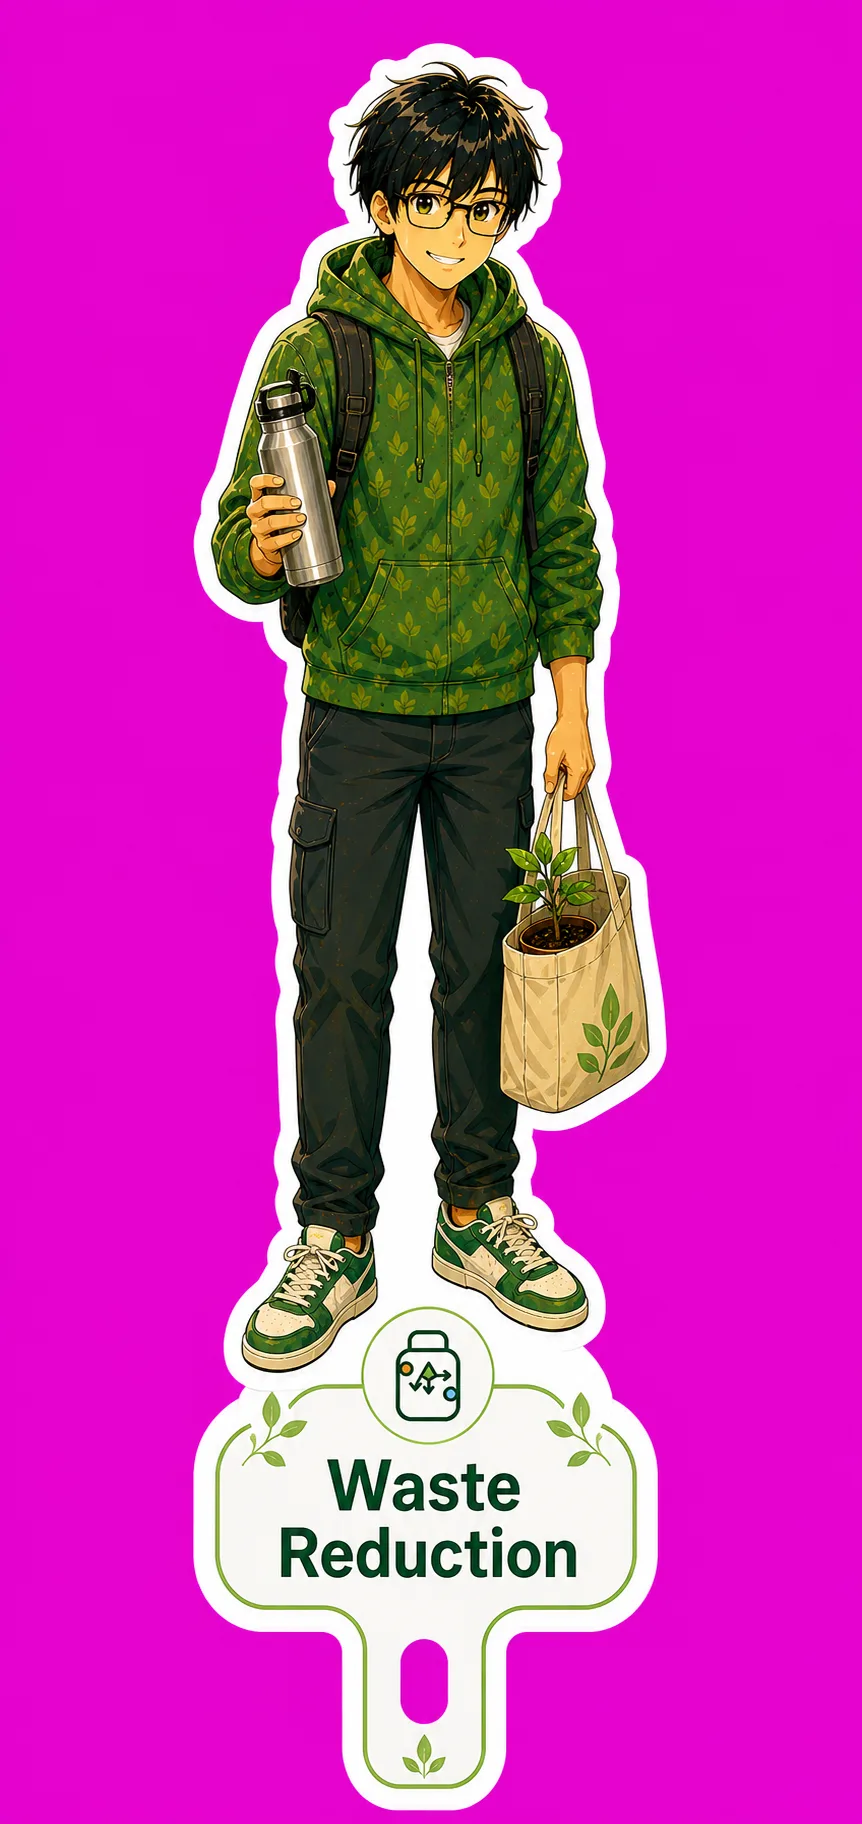
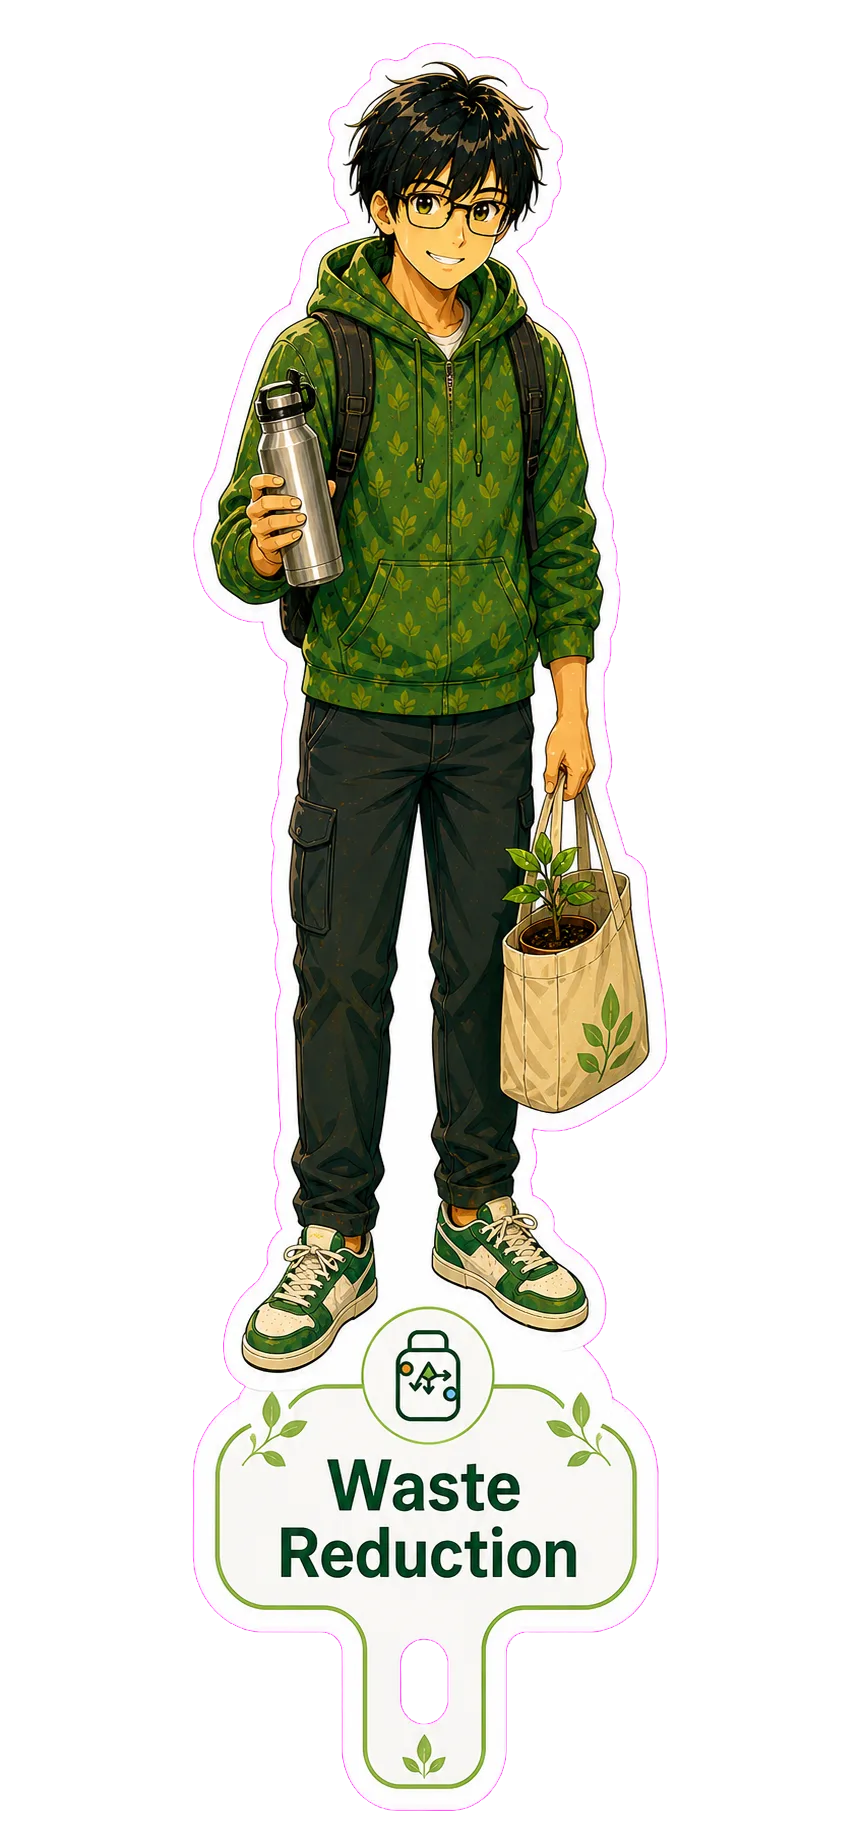
去背調整

diff --git a/blueskyreturns/green-action-7day.html b/blueskyreturns/green-action-7day.html
@@ -1757,7 +1757,7 @@
     import { compressImageUpload } from "../assets/image-upload-utils.js";
     import { browserLocalPersistence, createUserWithEmailAndPassword, getAuth, onAuthStateChanged, setPersistence, signInWithEmailAndPassword } from "https://www.gstatic.com/firebasejs/12.12.1/firebase-auth.js";
     import { getFirestore, collection, getDocs, addDoc, doc, updateDoc, deleteDoc, getDoc, query, setDoc, where } from "https://www.gstatic.com/firebasejs/12.12.1/firebase-firestore-lite.js";
-    import { getStorage, ref, uploadBytes, getDownloadURL, deleteObject } from "https://www.gstatic.com/firebasejs/12.12.1/firebase-storage.js";
+    import { getStorage, ref, uploadBytes, getDownloadURL, deleteObject, getBlob } from "https://www.gstatic.com/firebasejs/12.12.1/firebase-storage.js";
 
     const firebaseConfig = {
       apiKey: "AIzaSyALbVjIlBlbfXDnvY8QEkl9PTBd1nj9v2o",
@@ -2201,6 +2201,19 @@
       if (Array.isArray(submission?.dimensions)) return submission.dimensions[0] || "";
       return String(submission?.dimensions || "").trim();
     };
+    const loadCanvasImageFromBlob = (blob) => new Promise((resolve, reject) => {
+      const objectUrl = URL.createObjectURL(blob);
+      const img = new Image();
+      img.onload = () => {
+        URL.revokeObjectURL(objectUrl);
+        resolve(img);
+      };
+      img.onerror = (error) => {
+        URL.revokeObjectURL(objectUrl);
+        reject(error);
+      };
+      img.src = objectUrl;
+    });
     const loadCanvasImage = async (src) => {
       if (!src) throw new Error("share-image-src-missing");
       try {
@@ -2208,20 +2221,7 @@
         if (!response.ok) {
           throw new Error(`share-image-fetch-failed:${response.status}`);
         }
-        const blob = await response.blob();
-        const objectUrl = URL.createObjectURL(blob);
-        return await new Promise((resolve, reject) => {
-          const img = new Image();
-          img.onload = () => {
-            URL.revokeObjectURL(objectUrl);
-            resolve(img);
-          };
-          img.onerror = (error) => {
-            URL.revokeObjectURL(objectUrl);
-            reject(error);
-          };
-          img.src = objectUrl;
-        });
+        return await loadCanvasImageFromBlob(await response.blob());
       } catch (fetchError) {
         return await new Promise((resolve, reject) => {
           const img = new Image();
@@ -2233,6 +2233,21 @@
           throw fetchError;
         });
       }
+    };
+    const loadSubmissionPhotoForShare = async (imageInfo) => {
+      if (!imageInfo) throw new Error("share-image-missing");
+      if (imageInfo.path) {
+        try {
+          const blob = await getBlob(ref(storage, imageInfo.path));
+          return await loadCanvasImageFromBlob(blob);
+        } catch (storageError) {
+          console.warn("Daily Green Actions share storage blob load failed.", storageError);
+        }
+      }
+      if (imageInfo.downloadURL) {
+        return loadCanvasImage(imageInfo.downloadURL);
+      }
+      throw new Error("share-image-src-missing");
     };
     const drawCover = (ctx, img, x, y, width, height) => {
       const scale = Math.max(width / img.width, height / img.height);
@@ -2317,9 +2332,9 @@
       }
 
       let photoDrawn = false;
-      if (submission.image?.downloadURL) {
+      if (submission.image?.downloadURL || submission.image?.path) {
         try {
-          const photo = await loadCanvasImage(submission.image.downloadURL);
+          const photo = await loadSubmissionPhotoForShare(submission.image);
           ctx.save();
           ctx.beginPath();
           ctx.roundRect(88, 310, 560, 760, 34);
